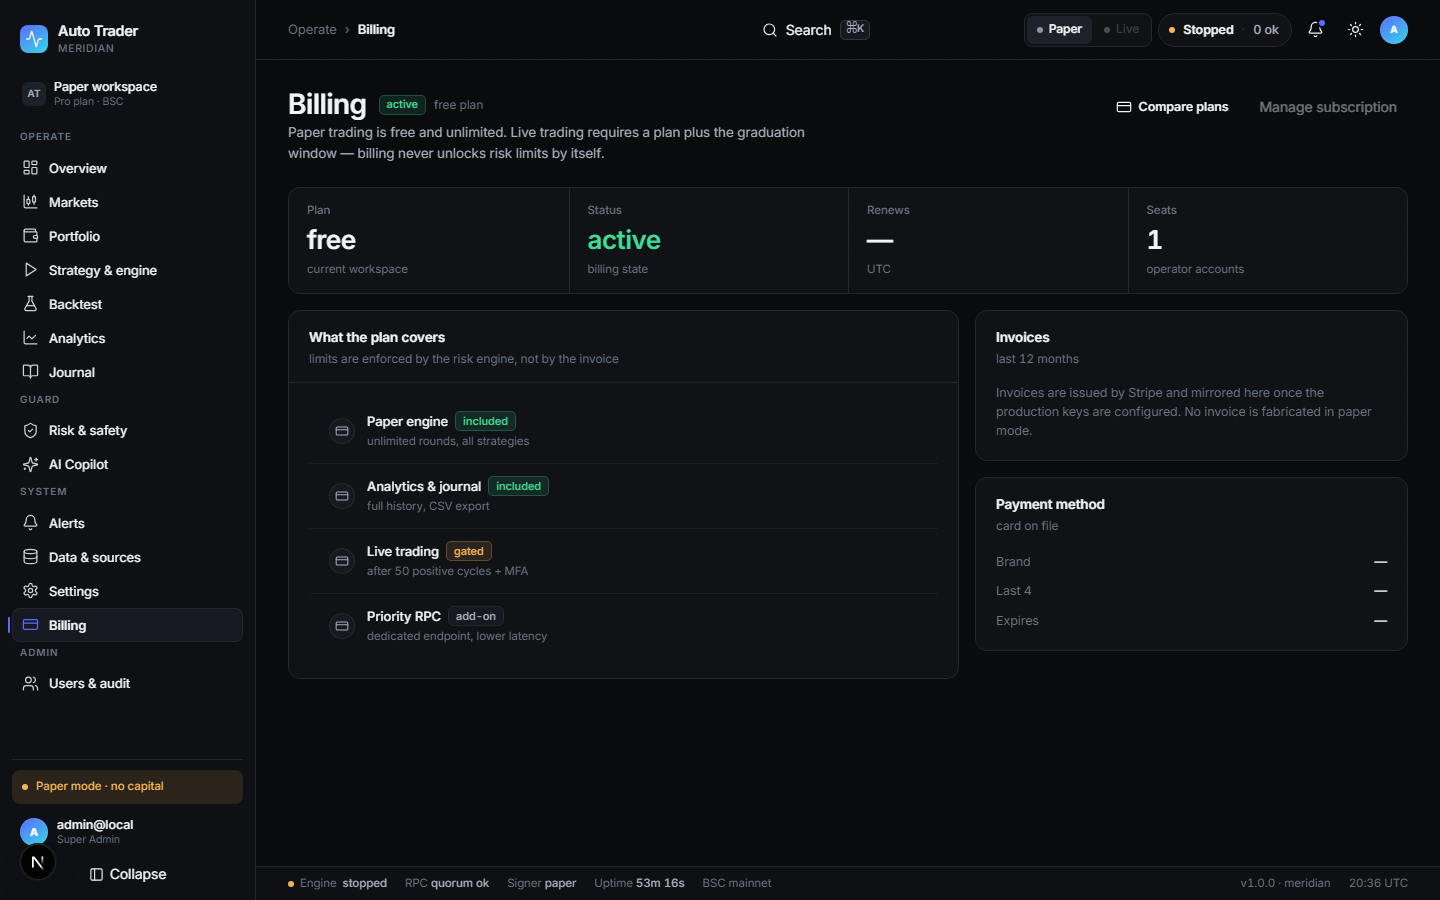
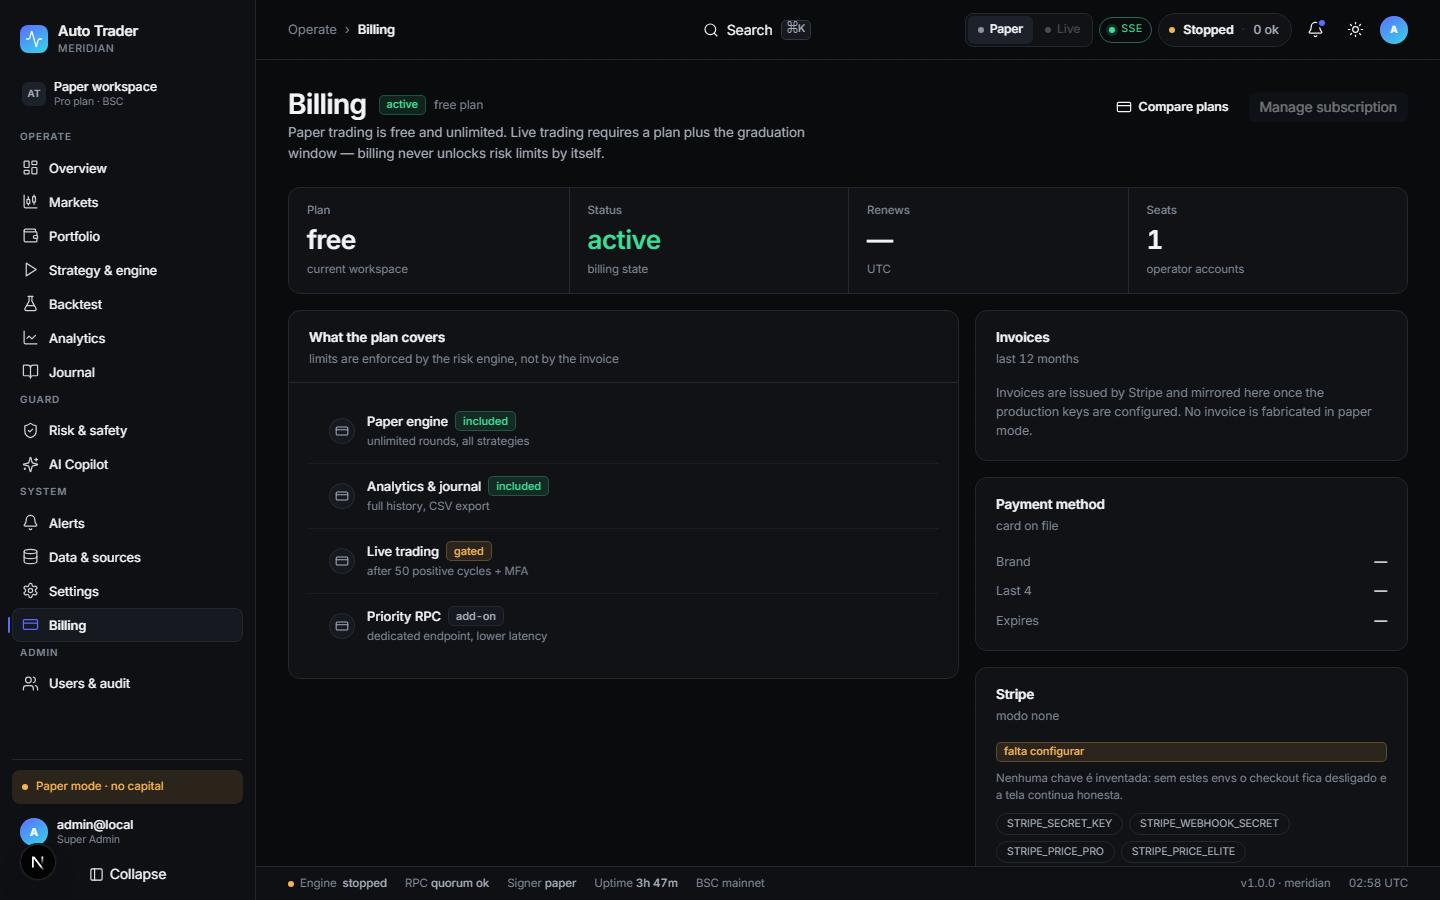
feat(ui): readiness do Stripe no billing + pass mobile das telas restantes (#65)
Nova rota GET /api/billing/status devolve apenas presenca/ausencia dos envs (SECRET_KEY, WEBHOOK_SECRET, PRICE_PRO, PRICE_ELITE) e o modo (test/live/none). O cartao Stripe em /billing mostra 'falta configurar' com os nomes pendentes e o caminho do webhook, sem inventar fatura. Mobile em 390px de Journal, Backtest, Copilot, Admin e Billing sem overflow horizontal.

diff --git a/src/components/meridian/billing-view.tsx b/src/components/meridian/billing-view.tsx
@@ -18,7 +18,21 @@ interface Subscription {
   [key: string]: unknown;
 }
 
+interface StripeStatus {
+  configured: boolean;
+  mode: "live" | "test" | "none";
+  missing: string[];
+  present: string[];
+  webhookPath: string;
+}
+
 export function BillingView() {
+  const stripe = useQuery<StripeStatus>({
+    queryKey: ["mrd", "stripe-status"],
+    queryFn: () => apiGet<StripeStatus>("/api/billing/status"),
+    retry: 0,
+  });
+
   const sub = useQuery<{ subscription?: Subscription | null } & Subscription>({
     queryKey: ["mrd", "subscription"],
     queryFn: () => apiGet<{ subscription?: Subscription | null } & Subscription>("/api/billing/subscription"),
@@ -112,6 +126,33 @@ export function BillingView() {
               </dl>
             ) : (
               <p className="mrd-dim" style={{ fontSize: 12.5 }}>No payment method recorded for this workspace.</p>
+            )}
+          </Card>
+          <Card title="Stripe" sub={stripe.data ? `modo ${stripe.data.mode}` : "integração"}>
+            {stripe.isLoading ? (
+              <Skeleton height={16} />
+            ) : stripe.data?.configured ? (
+              <div style={{ display: "grid", gap: 8 }}>
+                <Badge tone="pos">pronto</Badge>
+                <p className="mrd-dim" style={{ fontSize: 11.5 }}>
+                  Checkout e webhook configurados. O portal de faturas usa {stripe.data.webhookPath}.
+                </p>
+              </div>
+            ) : (
+              <div style={{ display: "grid", gap: 8 }}>
+                <Badge tone="warn">falta configurar</Badge>
+                <p className="mrd-dim" style={{ fontSize: 11.5, lineHeight: 1.55 }}>
+                  Nenhuma chave é inventada: sem estes envs o checkout fica desligado e a tela continua honesta.
+                </p>
+                <div style={{ display: "flex", flexWrap: "wrap", gap: 6 }}>
+                  {(stripe.data?.missing ?? []).map((k) => (
+                    <span key={k} className="mrd-chip" style={{ height: 22, fontSize: 10.5 }}>{k}</span>
+                  ))}
+                </div>
+                <p className="mrd-dim" style={{ fontSize: 11 }}>
+                  Webhook: <code>{stripe.data?.webhookPath}</code> · assinatura verificada por HMAC.
+                </p>
+              </div>
             )}
           </Card>
         </div>

diff --git a/src/app/api/billing/status/route.ts b/src/app/api/billing/status/route.ts
@@ -1,0 +1,36 @@
+import { NextResponse } from "next/server";
+import { requireSession } from "@/lib/auth/session";
+import { hasPermission } from "@/lib/auth/rbac";
+import { ForbiddenError } from "@/lib/auth/errors";
+import { handleApiError } from "@/lib/api/error-handler";
+
+// GET /api/billing/status — what the Stripe integration still needs to work.
+// Nunca devolve valores de chave, apenas presença/ausência dos envs.
+export const dynamic = "force-dynamic";
+
+const REQUIRED = [
+  "STRIPE_SECRET_KEY",
+  "STRIPE_WEBHOOK_SECRET",
+  "STRIPE_PRICE_PRO",
+  "STRIPE_PRICE_ELITE",
+] as const;
+
+export async function GET(req: Request) {
+  try {
+    const session = await requireSession(req);
+    if (!hasPermission(session.role, "dashboard:read")) throw new ForbiddenError("dashboard:read");
+
+    const present = (key: string) => Boolean(process.env[key]?.trim());
+    const missing = REQUIRED.filter((k) => !present(k));
+
+    return NextResponse.json({
+      configured: missing.length === 0,
+      mode: process.env.STRIPE_SECRET_KEY?.startsWith("sk_live_") ? "live" : process.env.STRIPE_SECRET_KEY ? "test" : "none",
+      missing,
+      present: REQUIRED.filter(present),
+      webhookPath: "/api/webhooks/stripe",
+    });
+  } catch (err) {
+    return handleApiError(err, "GET /api/billing/status");
+  }
+}

diff --git a/docs/meridian-phase1.md b/docs/meridian-phase1.md
@@ -123,3 +123,24 @@ Resultado local: **6 passed** (setup + 5) e `e2e/auth.spec.ts` **3 passed**.
 ### Sobre o gate de coverage da CI
 
 Os totais do job vermelho eram **32.28 / 27.73 / 40.02 / 32.62** contra thresholds **30 / 39 / 27** — ou seja, o threshold é atendido. O exit 1 vem dos testes daquele passo, não da régua: os arquivos que falham são dependentes de banco (`tests/rag.test.ts`, `tests/trading-coverage.test.ts`), com o mesmo sintoma de isolamento que reproduzi localmente (DB com posições semeadas). Isso é anterior a este trabalho e vive em `src/lib`/`tests` de outros agentes.
+
+## Stripe — estado real (verificado no dashboard)
+
+A organização `END ART Studios` (`org_6VHXkc7K9Phts5CR8qMkBhI`) tem **três contas** e nenhuma delas é Auto Trader:
+
+| Conta | ID |
+|---|---|
+| Almanaque dos Clubes | `acct_1U89nHPvpIyYKAjl` |
+| MEDIA Rate | `acct_1TwWJAL2aUoTXFOy` |
+| ShopFinder | `acct_1U8UGgLEl3sW62zc` |
+
+Não existe conta Auto Trader nessa organização e a sessão não mostra outra org. **Nenhuma chave foi criada** — criar uma conta Stripe exige dados de negócio/KYC e não deve ser feito sem confirmação explícita.
+
+Em vez de simular faturas, a tela de Billing ganhou um cartão **Stripe** alimentado por `GET /api/billing/status`, que devolve apenas presença/ausência dos envs (nunca valores):
+
+- `STRIPE_SECRET_KEY`
+- `STRIPE_WEBHOOK_SECRET`
+- `STRIPE_PRICE_PRO`
+- `STRIPE_PRICE_ELITE`
+
+Enquanto faltarem, o cartão mostra `falta configurar` com os nomes pendentes e o caminho do webhook (`/api/webhooks/stripe`).
